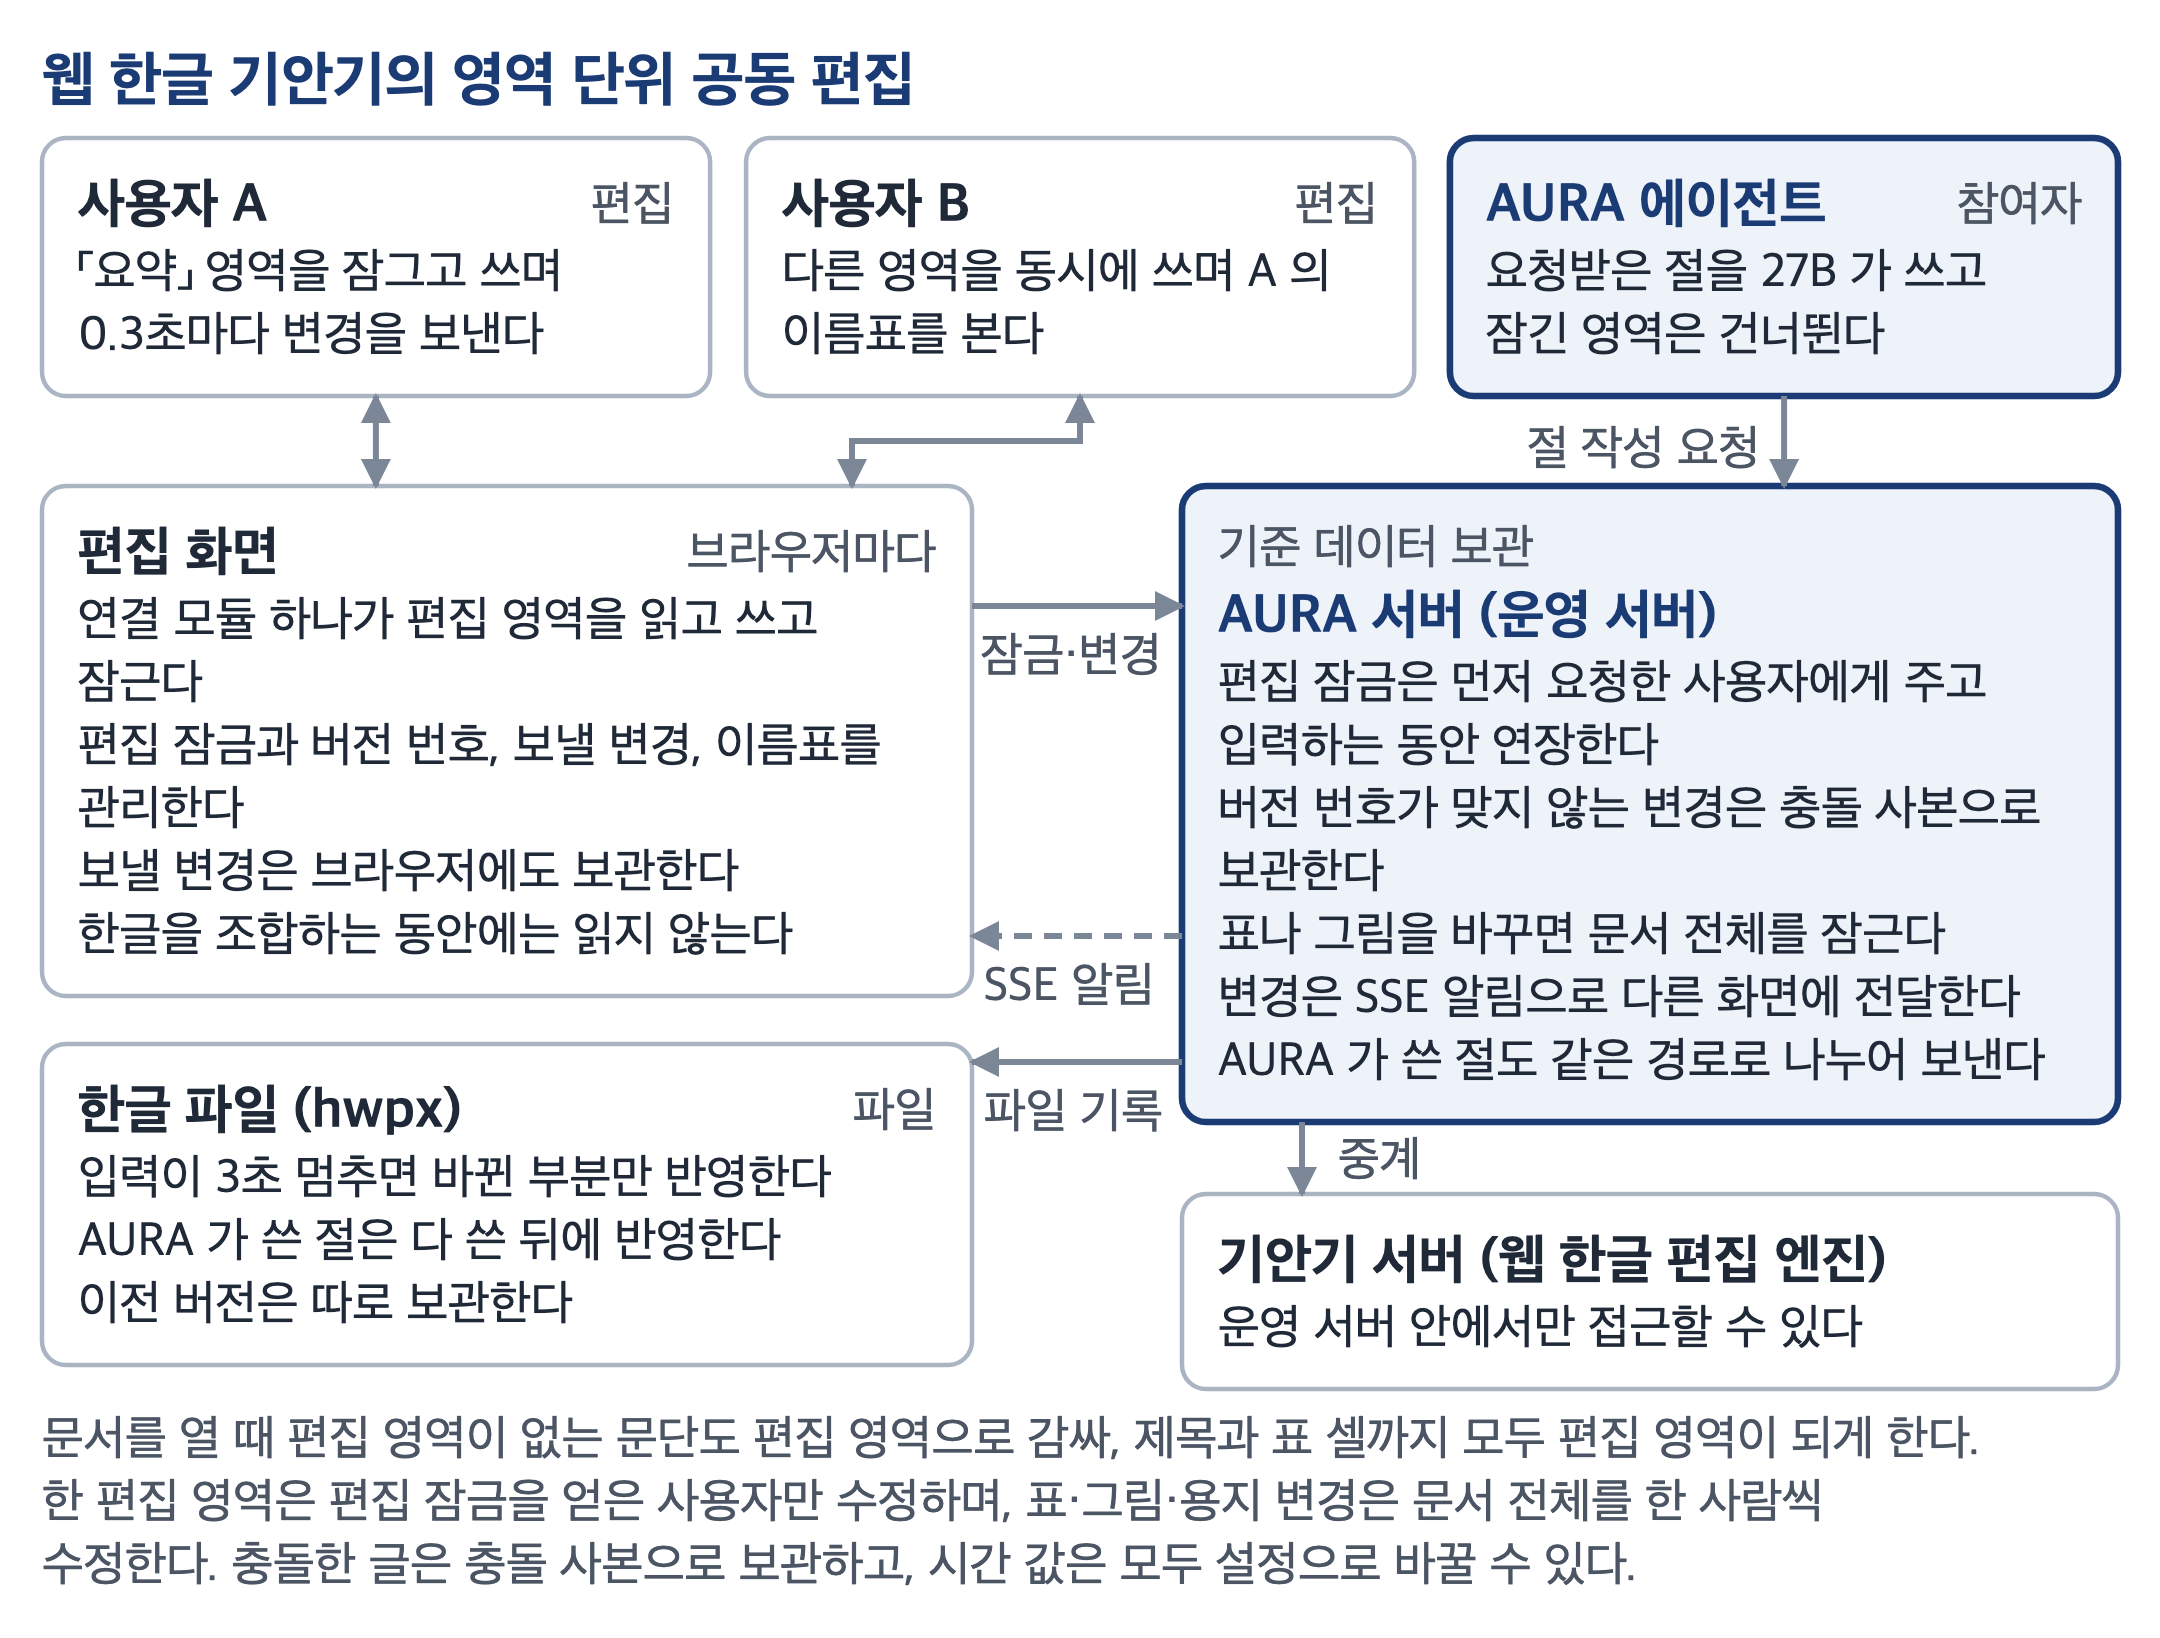
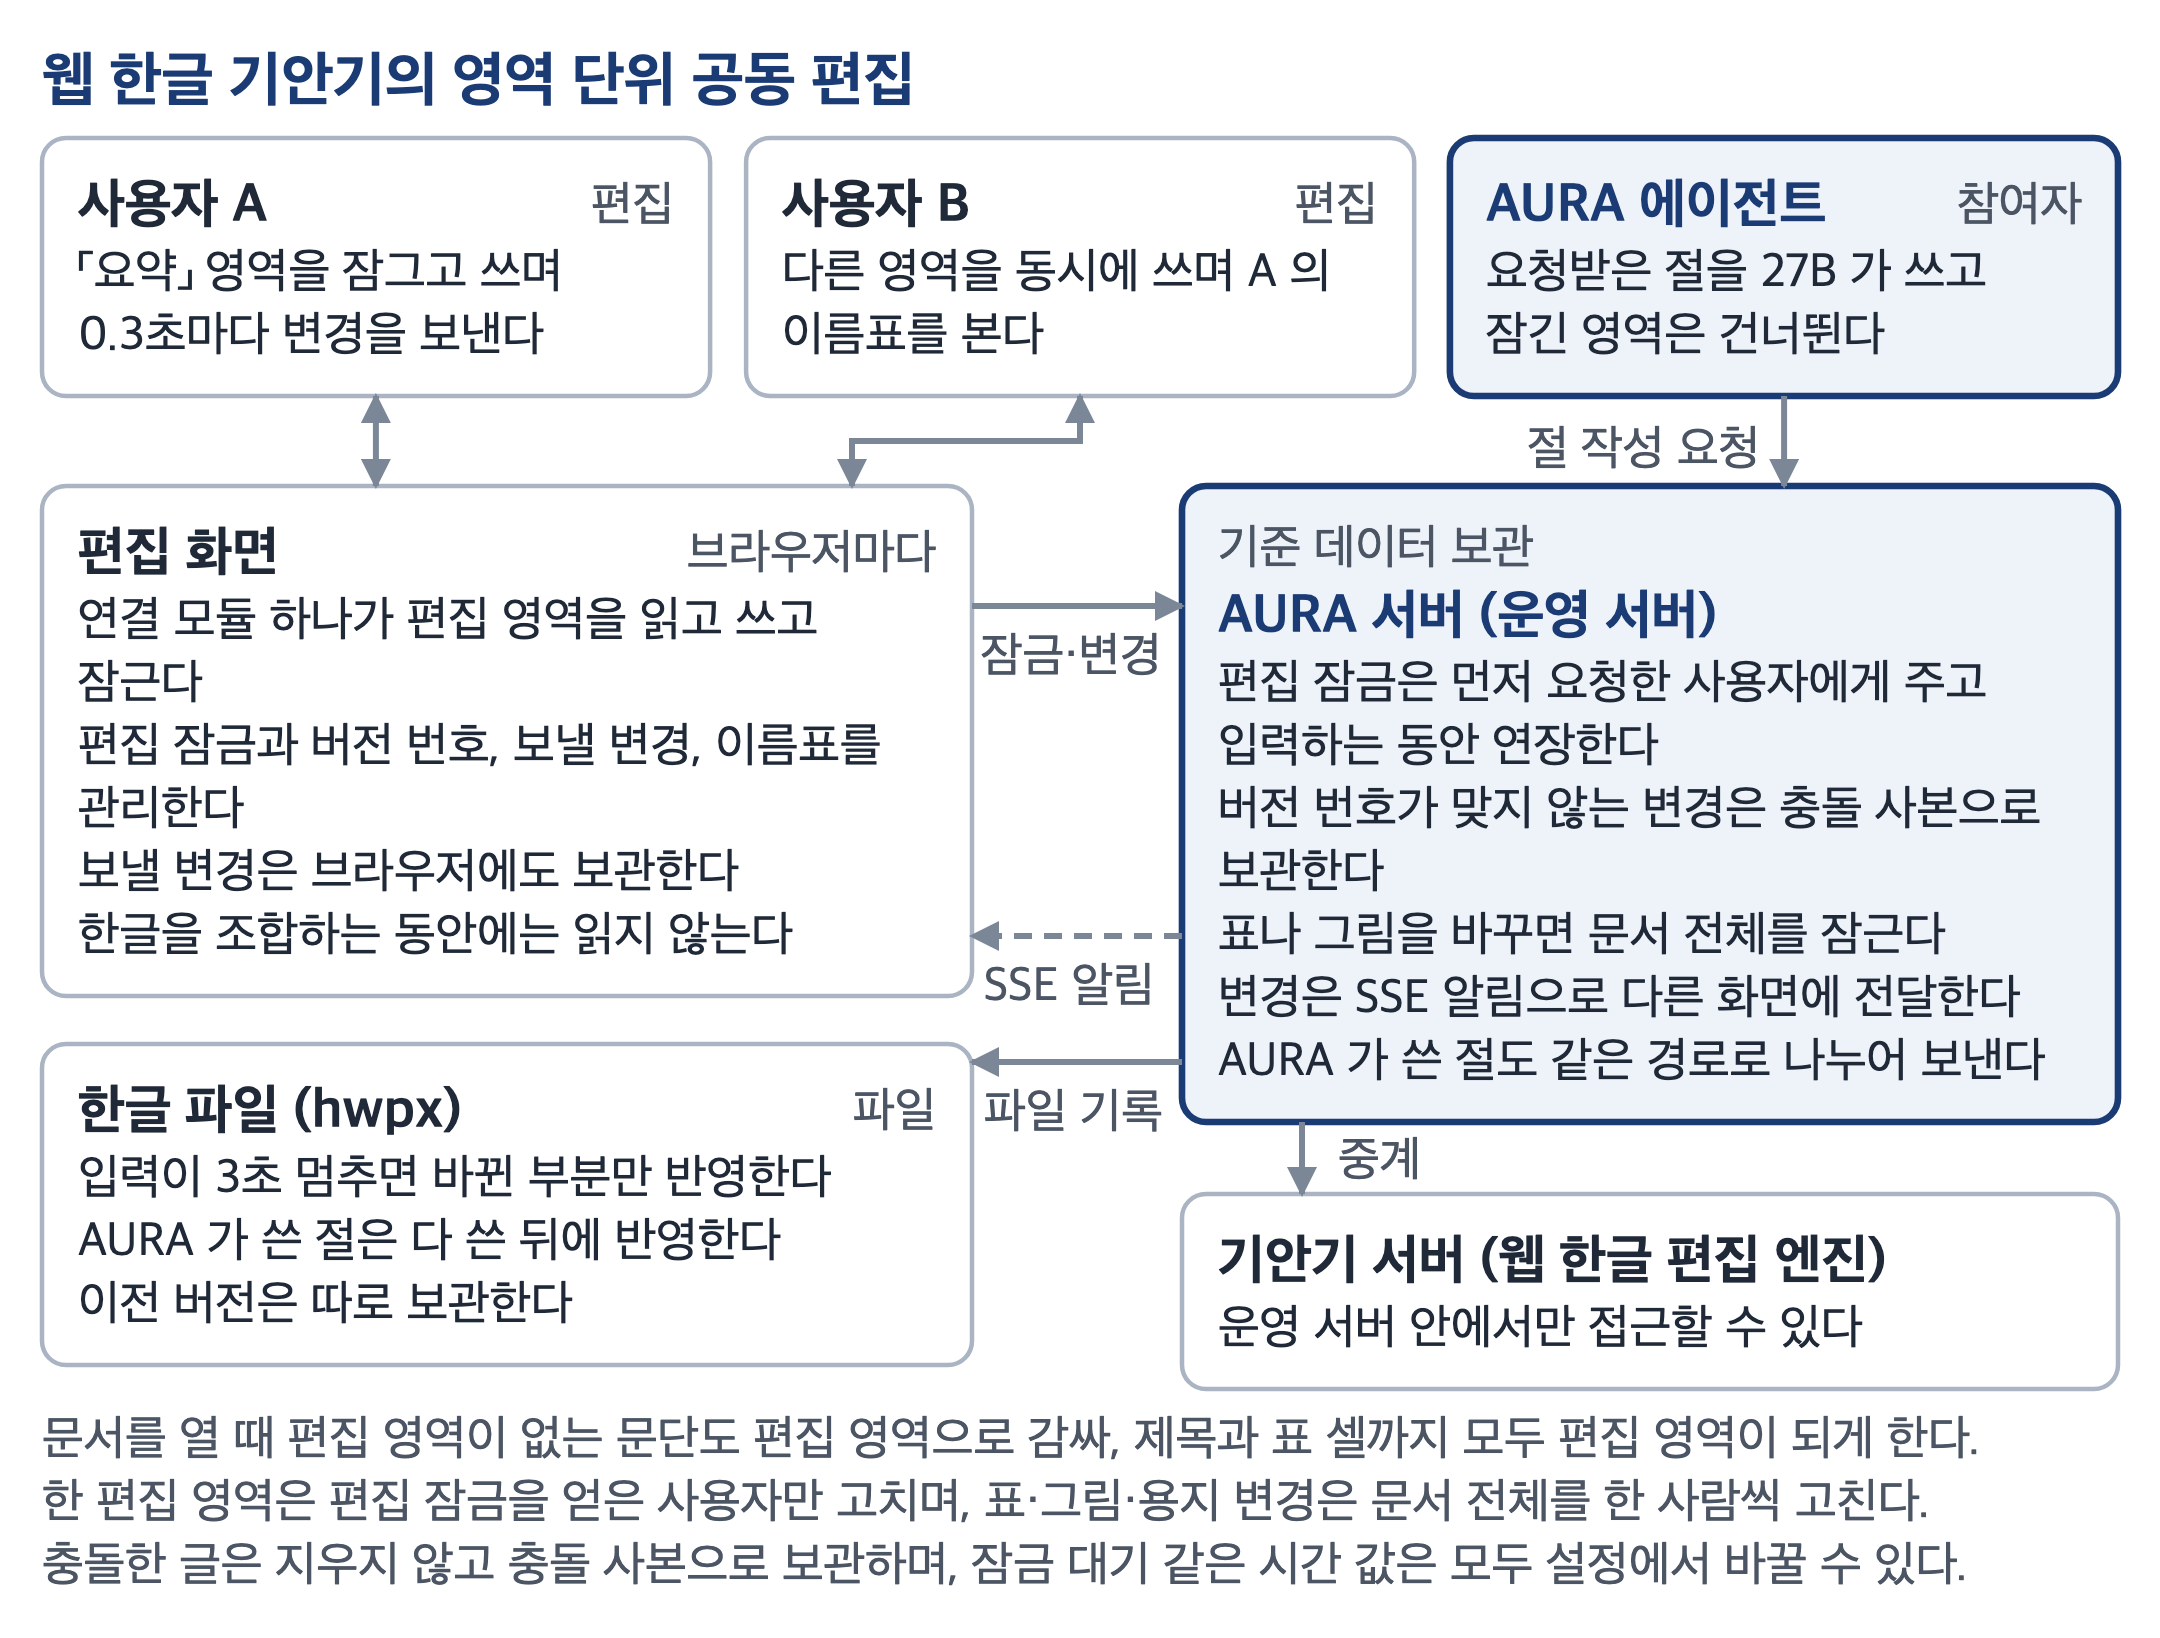
그림 2-23(영역 단위 공동 편집 구조) 아래 설명: 문장마다 한 줄로, 줄 길이를 고르게(「수정한다.」만 다음 줄로 넘어가 계단처럼 보이던 것)
[문서 무관] 논문 그림 이미지만 다시 그림

Changed region(s): [[0.0, 0.9029, 0.8995, 0.9652]]

diff --git a/docs/images/diagrams/make_diagrams.py b/docs/images/diagrams/make_diagrams.py
@@ -560,9 +560,11 @@ def hwp():
     s.para(M + lw + 4, ya + 6, gap - 4, "파일 기록", color=MUTED)
     y4 = max(y4 + fh, y3 + gh) - fh
     yb = max(y4 + fh, y3 + gh) + 6
-    yb = s.note(yb, "문서를 열 때 편집 영역이 없는 문단도 편집 영역으로 감싸, 제목과 표 셀까지 모두 편집 영역이 되게 한다. "
-                    "한 편집 영역은 편집 잠금을 얻은 사용자만 수정하며, 표·그림·용지 변경은 문서 전체를 한 사람씩 수정한다. "
-                    "충돌한 글은 충돌 사본으로 보관하고, 시간 값은 모두 설정으로 바꿀 수 있다.")
+    # 문장마다 새 줄로 — 이어 쓰면 「수정한다.」 한 낱말만 다음 줄로 넘어가 계단처럼 보였다(11-19 사용자)
+    for sent in ("문서를 열 때 편집 영역이 없는 문단도 편집 영역으로 감싸, 제목과 표 셀까지 모두 편집 영역이 되게 한다.",
+                 "한 편집 영역은 편집 잠금을 얻은 사용자만 고치며, 표·그림·용지 변경은 문서 전체를 한 사람씩 고친다.",
+                 "충돌한 글은 지우지 않고 충돌 사본으로 보관하며, 잠금 대기 같은 시간 값은 모두 설정에서 바꿀 수 있다."):
+        yb = s.note(yb, sent)
     s.fit(yb)
     s.save("03-hwp-coedit", "웹 한글 기안기 편집 영역 단위 공동 편집")
 
